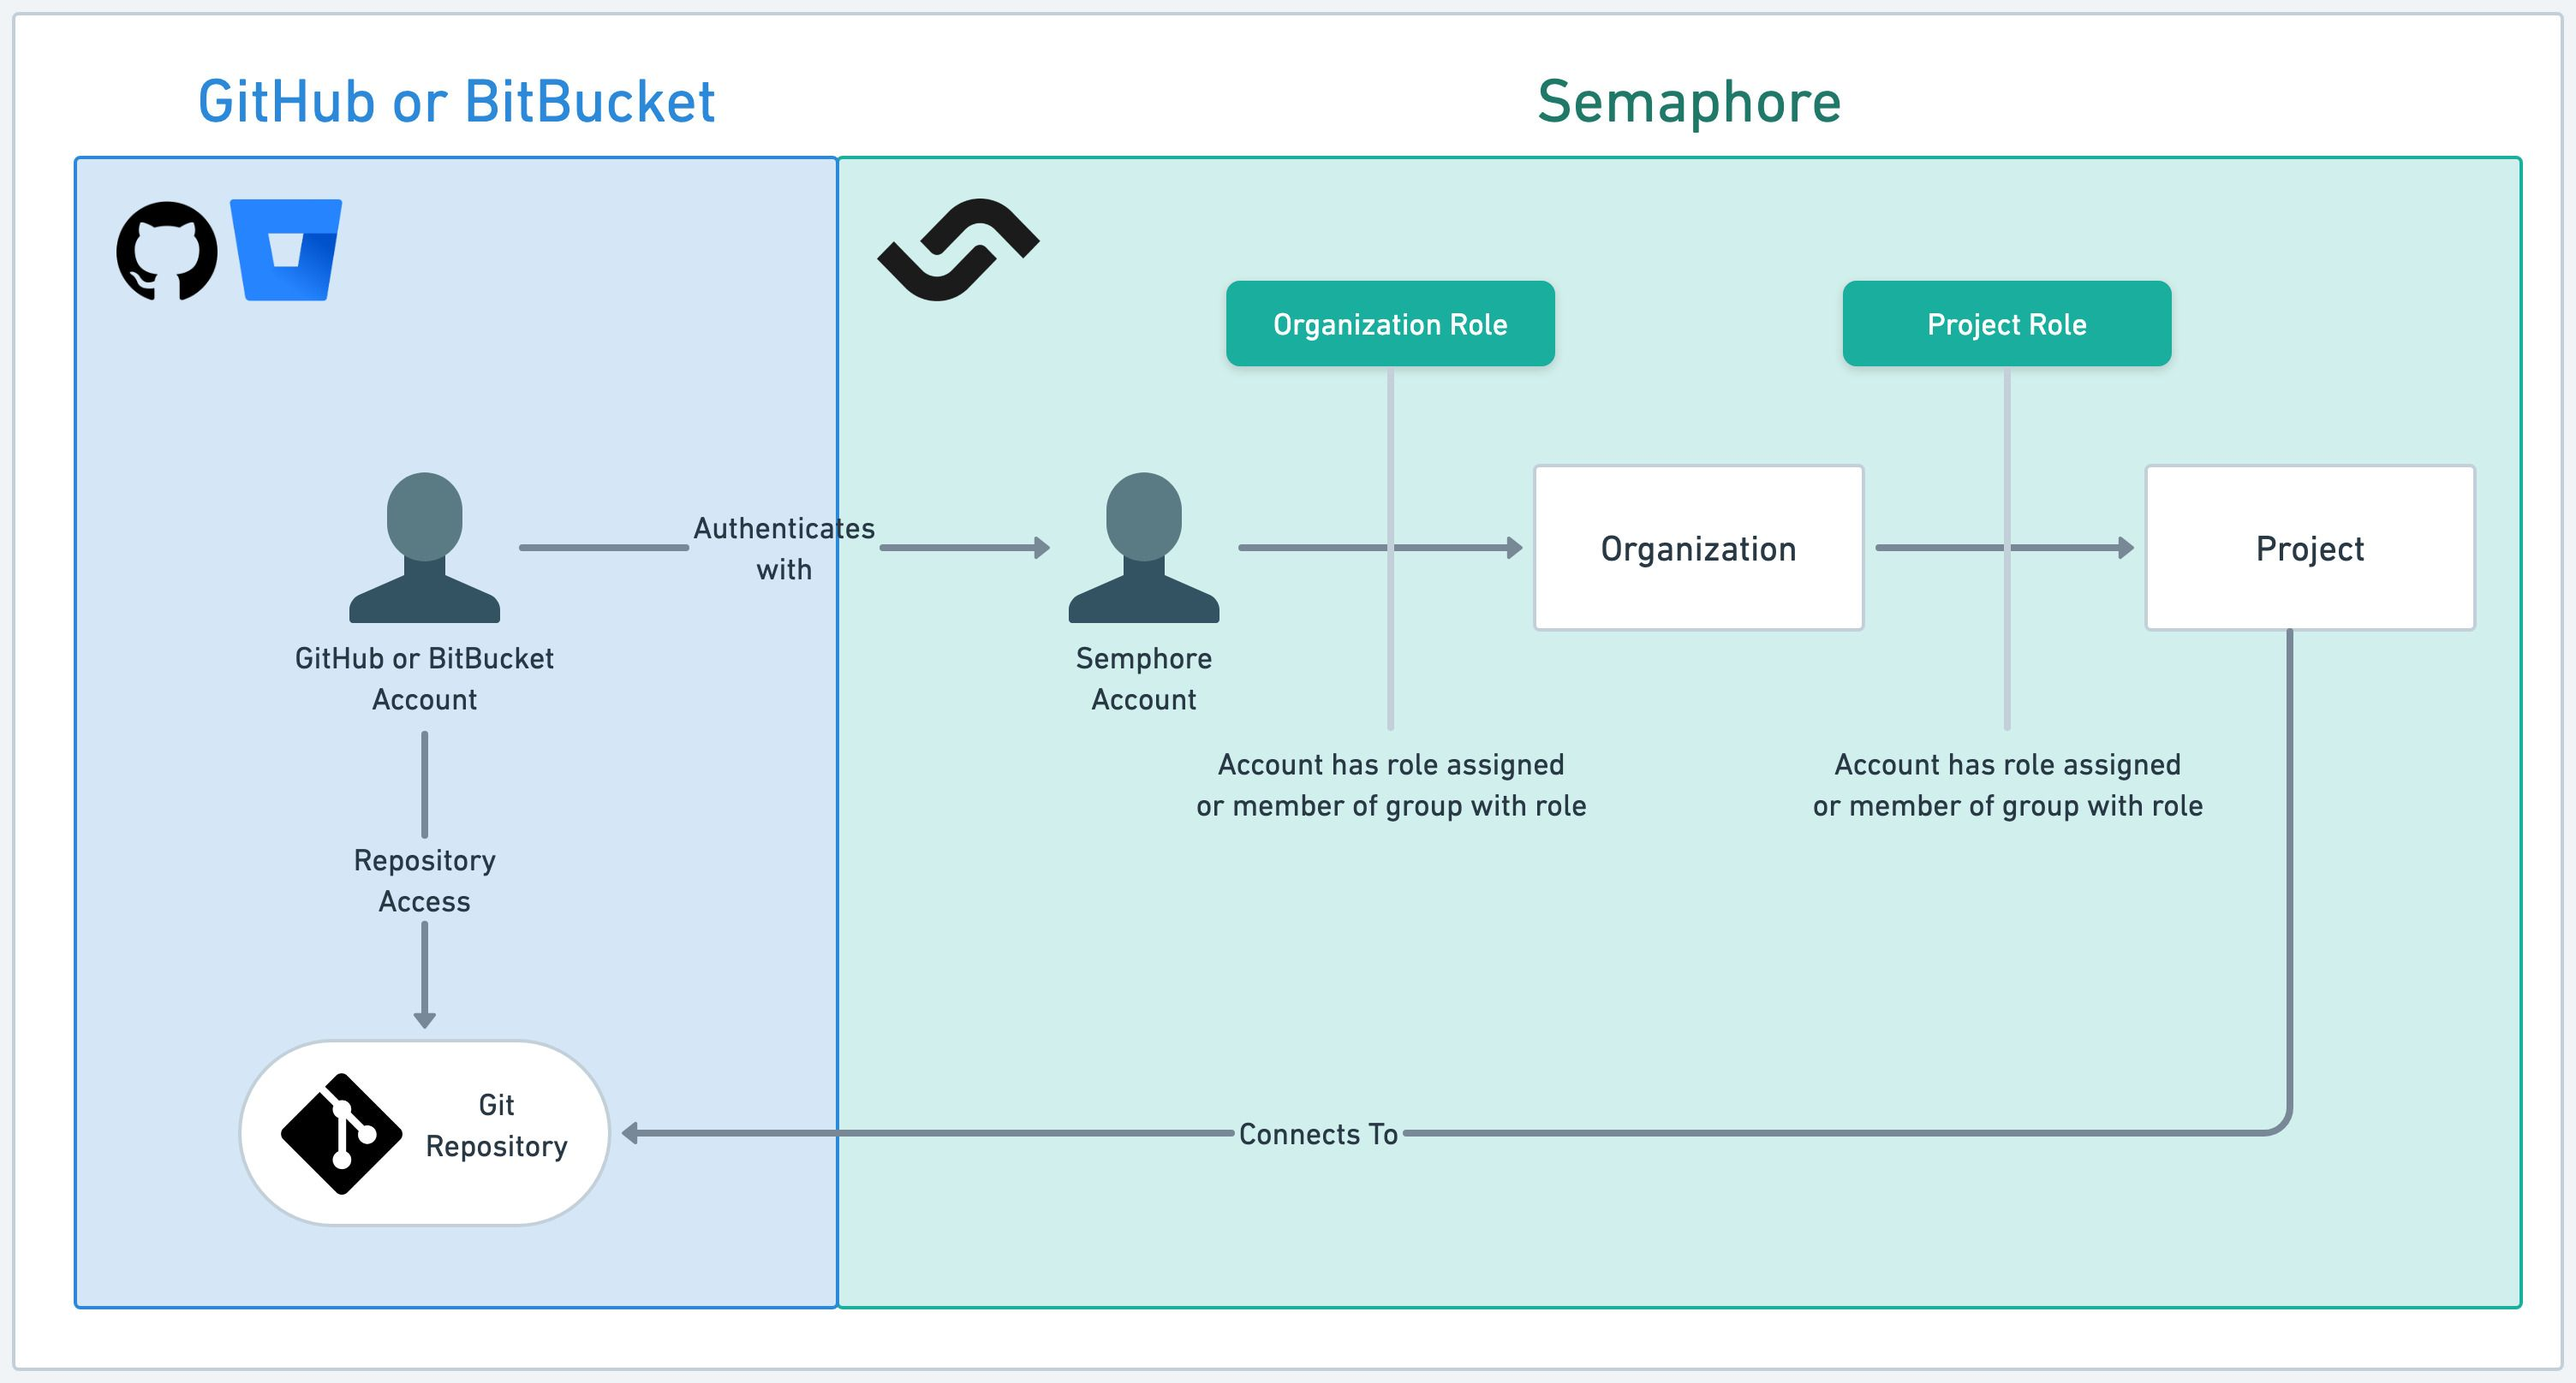
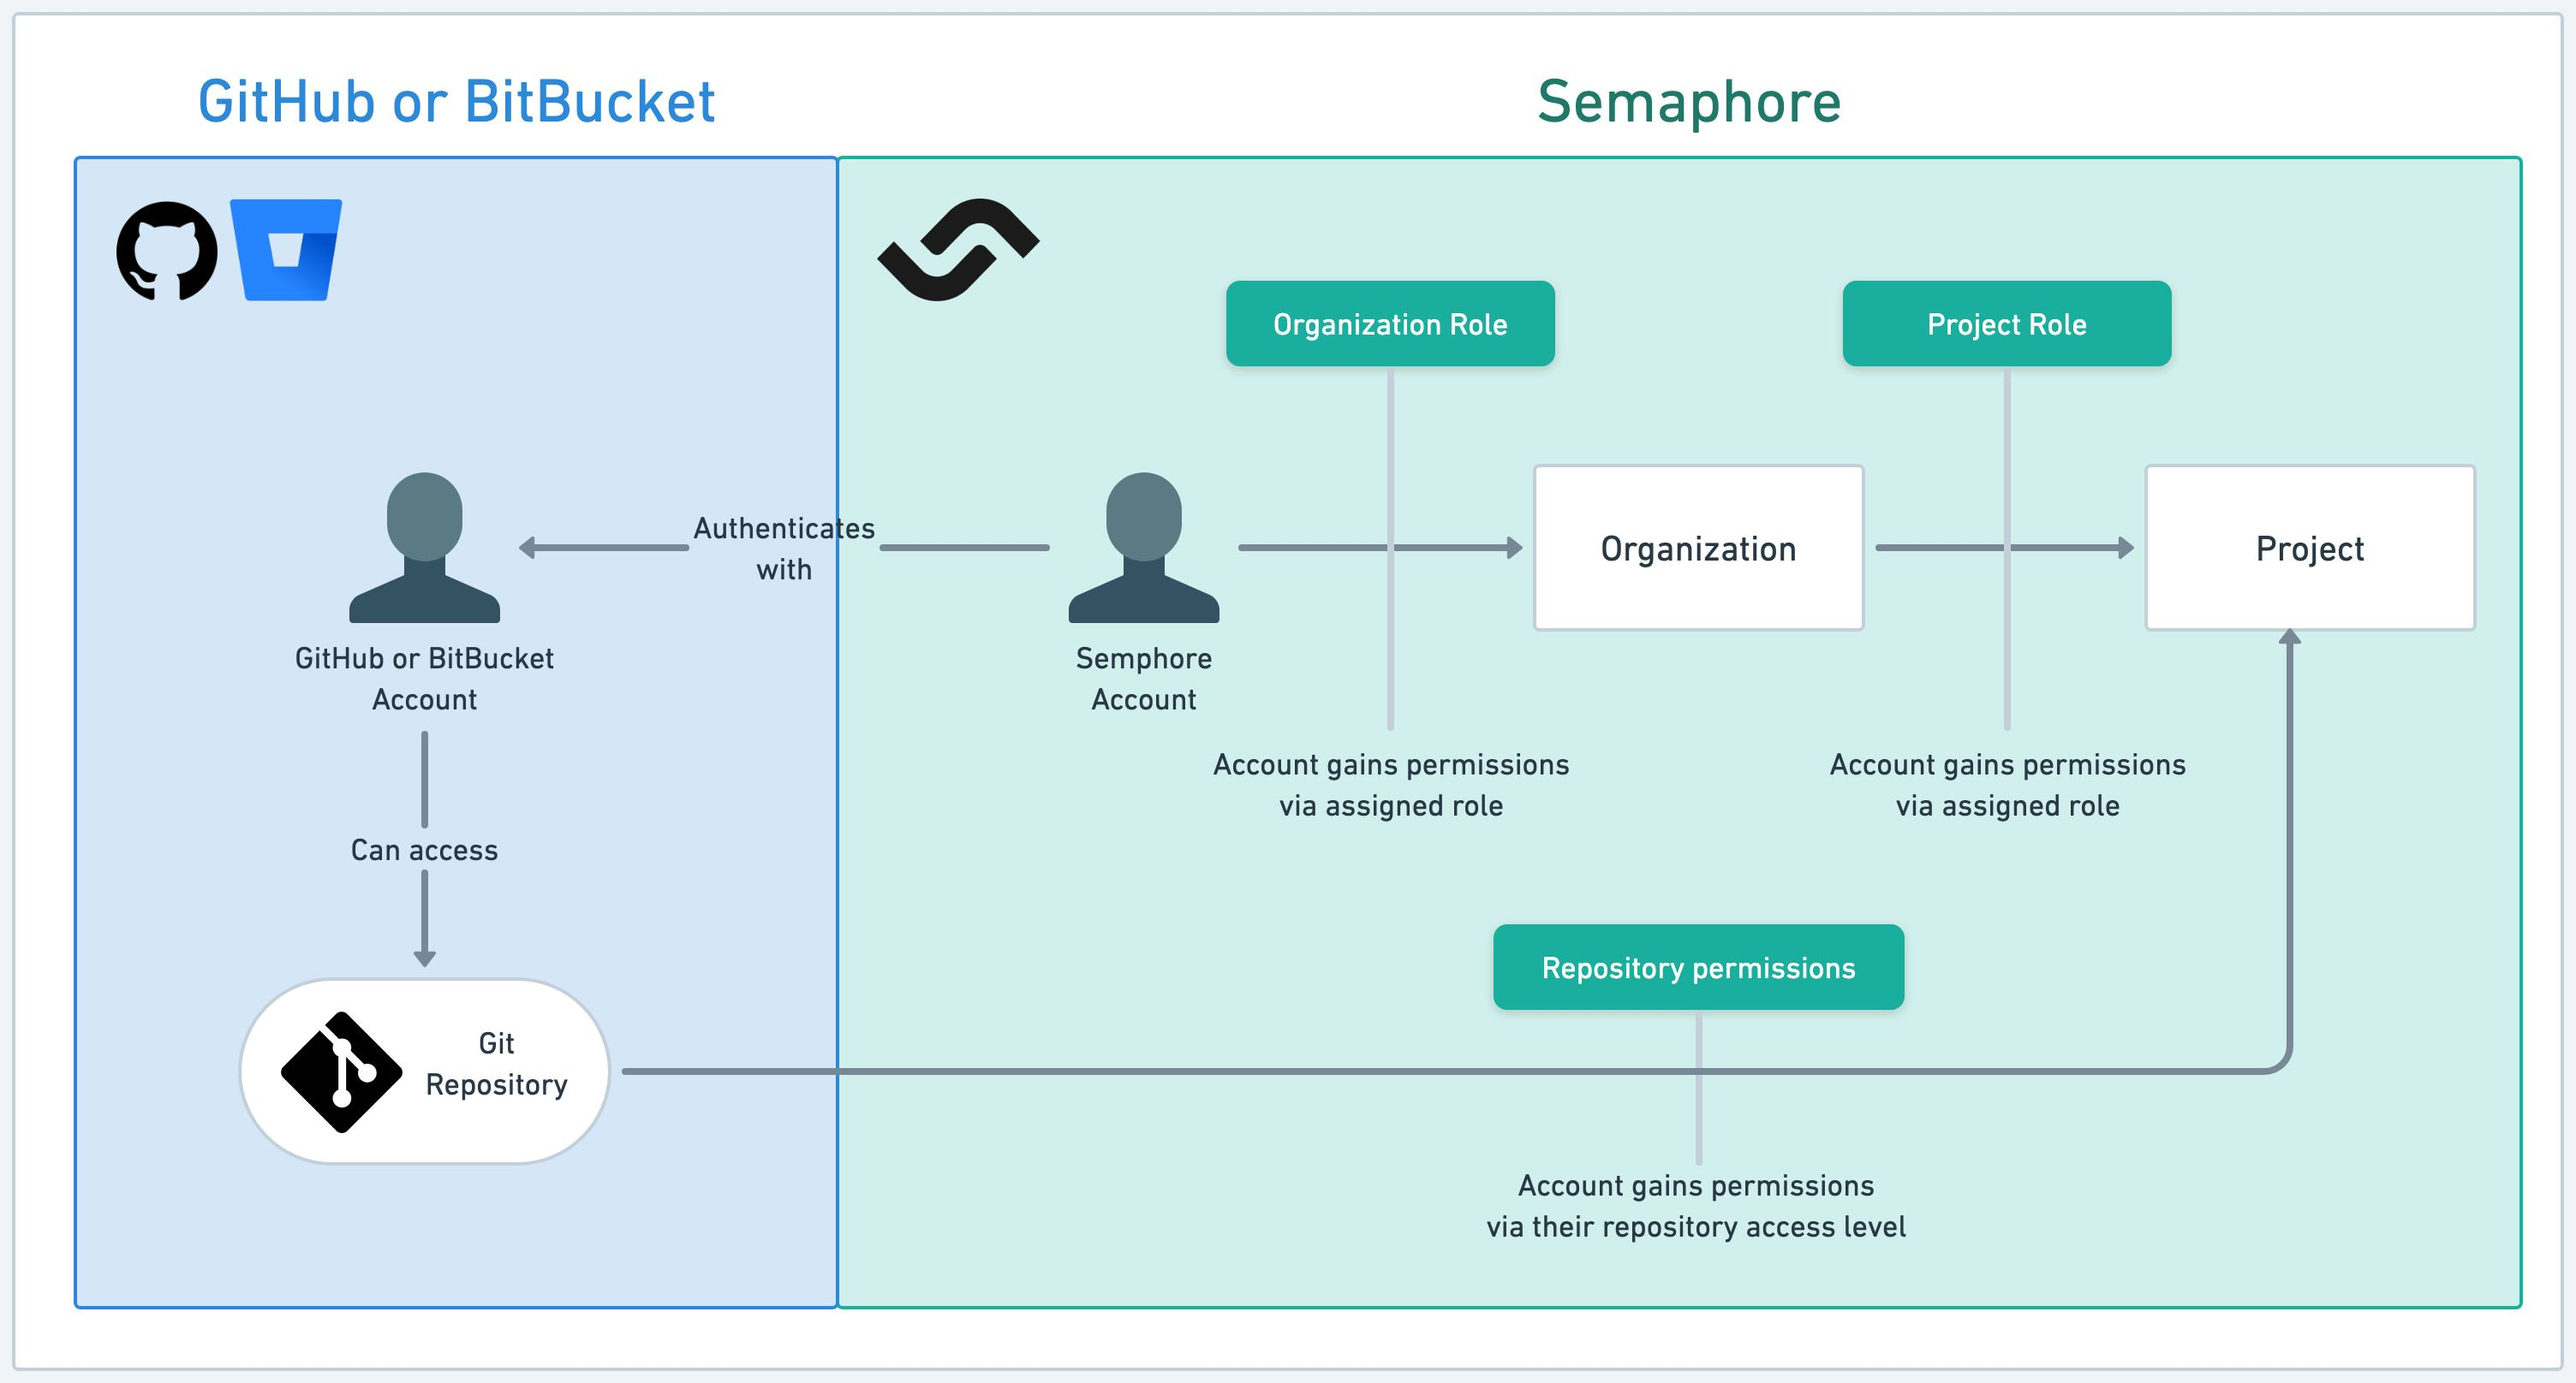
Update RBAC pages (#211)

Changed region(s): [[0.0938, 0.5879, 0.9062, 0.8973], [0.4688, 0.526, 0.625, 0.5879], [0.7188, 0.526, 0.8438, 0.5879]]

diff --git a/docs/docs/using-semaphore/rbac.md b/docs/docs/using-semaphore/rbac.md
@@ -12,11 +12,11 @@ import Steps from '@site/src/components/Steps';
 
 <VideoTutorial title="How to use Role Based Access Control" src="https://www.youtube.com/embed/YQ3LP5_UmpA?si=9GXkhLkPwT9lMpYJ" />
 
-Role Based Access Control (RBAC) allows you to manage user permissions in the organization and its projects. This page describes gives an overview of RBAC and the existing roles in Semaphore.
+Manage user permissions in your organization and projects with Role Based Access Control (RBAC). This page describes gives an overview of RBAC, how to assign roles to users and groups, and how to create custom roles.
 
 ## Overview
 
-Semaphore uses a Role Based Access Control model to manage user permissions and access within the organizations and projects.
+Semaphore uses a RBAC model to determine what actions users can take in organizations and projects.
 
 An organization [Admin](#org-admin) or [Owner](#org-owner) must invite users via their GitHub or BitBucket accounts before they can access the Semaphore organization or any of the projects.
 
@@ -24,29 +24,28 @@ An organization [Admin](#org-admin) or [Owner](#org-owner) must invite users via
 
 Semaphore manages roles on two levels:
 
-- [Organization](#org): these roles allow users to perform various organizational tasks. Users need to be added to the organization before they can access projects.
+- [Organization](#org): these roles allow users to perform various organizational actions. Users need to be added to the organization before they can access projects.
 - [Project](#project): these roles give access to a [project](./projects) within the organization. Users need to have access to the repository connected to the project.
 
 Roles can be gained in three ways:
 
 - **Direct**: you can directly assign up to one organization role and one project role to the user
-- **Group**: you add users to [groups](#org-groups). Group members gain the role assigned to the group
-- **Repository**: users with access to repositories linked to projects may gain [project roles](#project)
+- **Group**: you can grant roles to [groups](#org-groups). Group members gain the role assigned to the group
+- **Repository**: users may gain project permissions based on their roles in the related repository (only on GitHub)
 
 ![RBAC authentication relations](./img/rbac-diagram.jpg)
 
 ### Permissions are additive {#additive}
 
-Permissions are additive. Users gaining permissions through multiple ways obtain the sum of all the permissions.
+Permissions are additive. Users gaining permissions through multiple ways obtain the combined total of all permissions.
 
-For example, let's say Ana has [admin](#org-admin) role in the organization. This gives her admin access to all the projects in the organization. If someone gives her the [reader](#project-reader) role in one project, she is still admin to that project. In other words, roles never substract permissions.
+For example, let's say Pam has [admin](#org-admin) role in the organization. This gives her unfettered access to all the projects in the organization. If Kevin gives her the [reader](#project-reader) role in one project, she is still effectively admin in that project. In other words, roles never substract permissions.
 
 ## Organization roles {#org}
 
 Organization roles control what actions the users may perform in Semaphore. Users need to be added to the organization via their GitHub or BitBucket usernames before they can be granted a role. Only users who are part of the organization can log in to Semaphore.
 
 The only exception is when a user is added via the [Okta integration](./okta).
-
 
 ### Member {#org-member}
 
@@ -117,7 +116,6 @@ The role given when a user is added to the project depends on their repository-l
 |Push|Write|[Contributor](#project-contributor)|
 |Admin|Admin|[Contributor](#project-contributor)|
 
-
 ### Reader {#project-reader}
 
 Readers can access the project page, and view workflows, their results, and job logs. They cannot make any modifications to the project.
@@ -153,7 +151,9 @@ Admins have the authority to modify any setting within the projects, including t
 
 ## Custom roles {#custom-roles}
 
-In addition to the pre-defined roles provided by Semaphore, you can create your own roles. Custom roles let you follow the principle of least privilege when managing using permissions.
+<Available plans={['Scaleup']}/>
+
+In addition to the pre-defined roles provided by Semaphore, you can create your custom own roles. Custom roles let you follow the principle of least privilege when managing using permissions.
 
 To manage custom roles, see the following pages:
 

diff --git a/docs/docs/using-semaphore/projects.md b/docs/docs/using-semaphore/projects.md
@@ -236,6 +236,8 @@ The actions with enabled checkbox are allowed for that role.
 
 ### How to create custom roles {#custom-roles}
 
+<Available plans={['Scaleup']}/>
+
 Create custom roles to give your users the precise permissions they need. 
 
 <Steps>
@@ -246,6 +248,8 @@ Create custom roles to give your users the precise permissions they need.
 4. Give a name a description to the new role
 5. Enable the permissions allowed to the role. You can use the search box to narrow down options
 6. Press **Save changes**
+
+    ![Creating a project custom role](./img/project-custom-roles1.jpg)
 
 </Steps>
 

diff --git a/docs/docs/using-semaphore/organizations.md b/docs/docs/using-semaphore/organizations.md
@@ -150,6 +150,8 @@ The actions with enabled checkbox are allowed for that role.
 
 ### How to create custom roles {#custom}
 
+<Available plans={['Scaleup']}/>
+
 Create custom roles to give your users the precise permissions they need. 
 
 <Steps>
